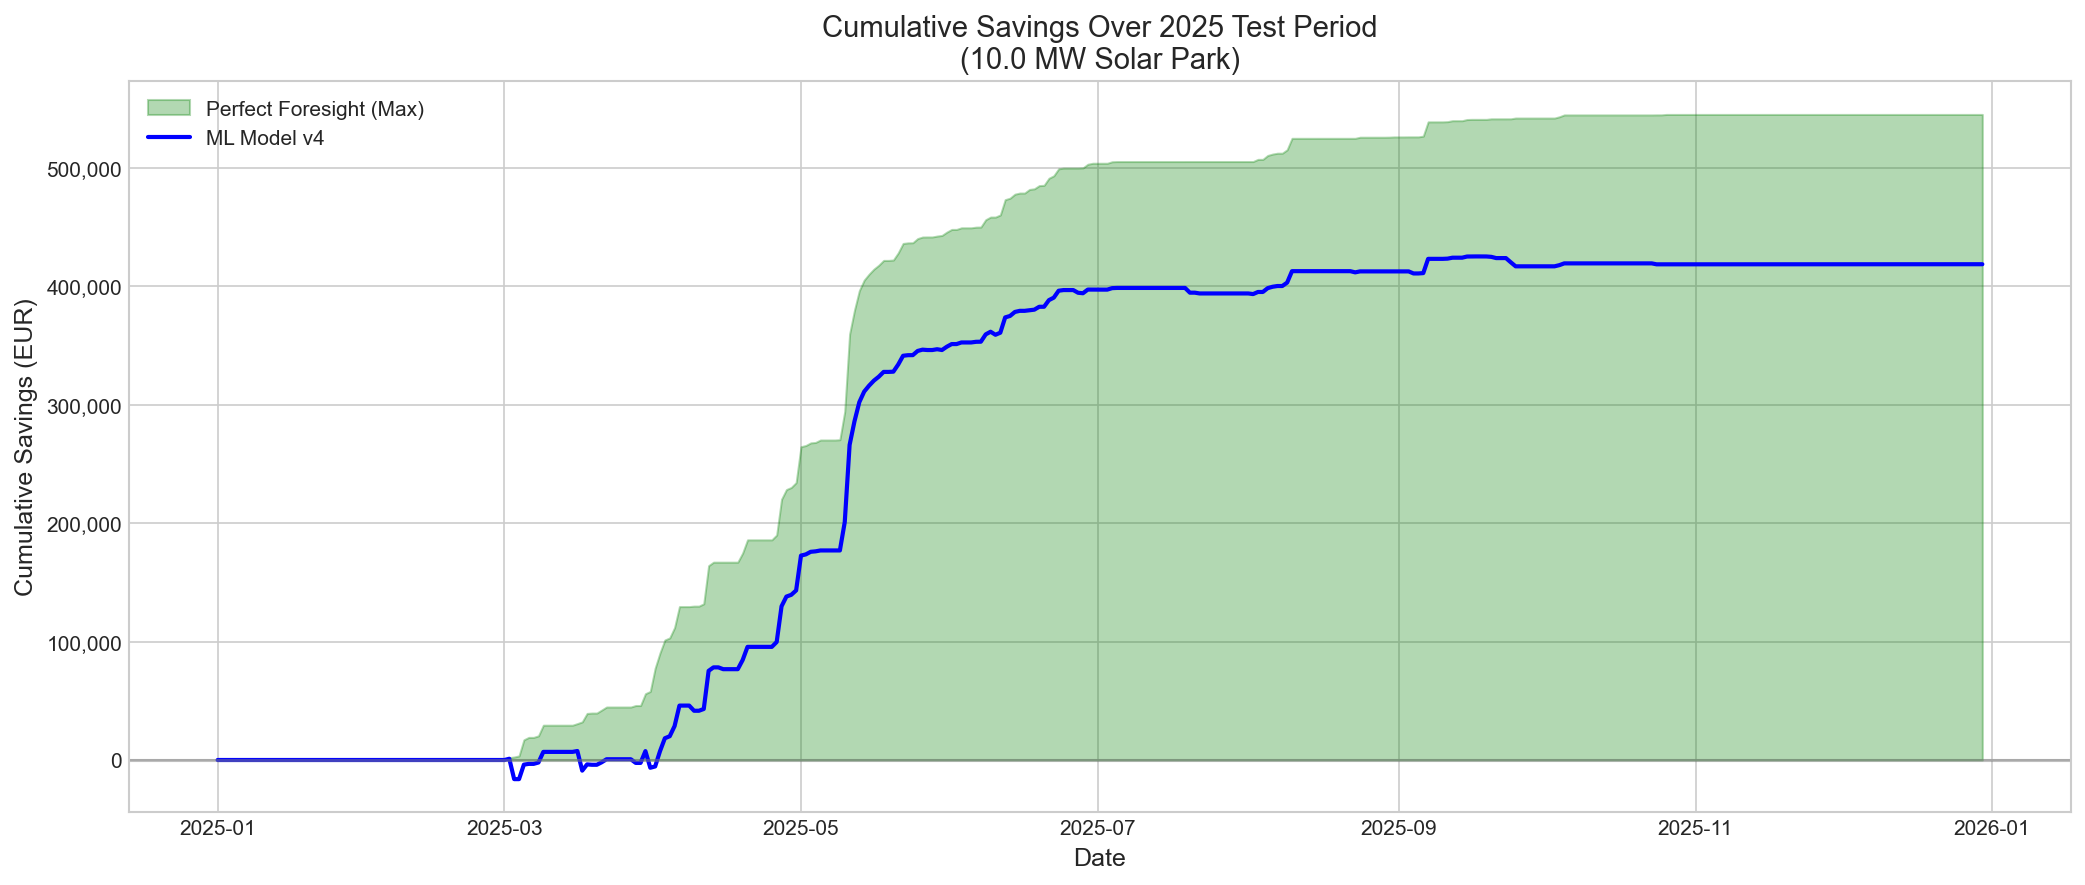
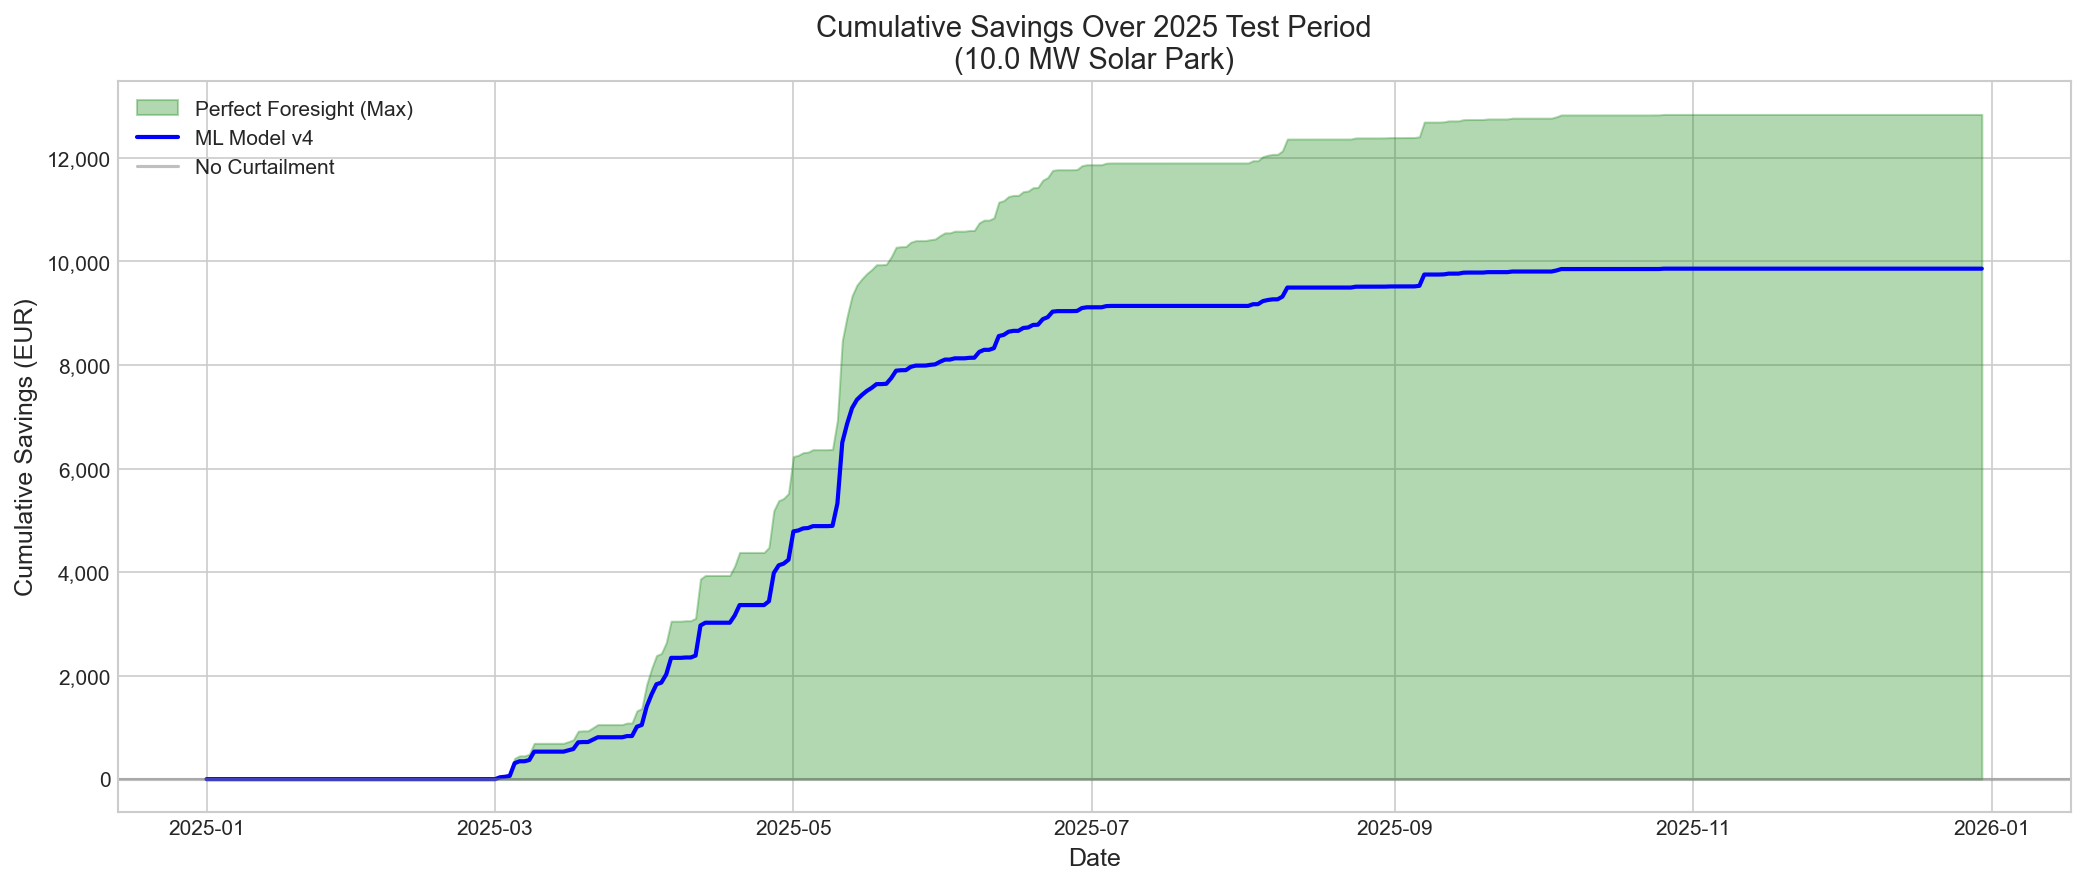
Effiencey changes and debugging

diff --git a/scripts/run_economic_analysis.py b/scripts/run_economic_analysis.py
@@ -217,10 +217,17 @@ def create_visualizations(results: pd.DataFrame, backtester: EconomicBacktester,
     test_df_copy = test_df.copy()
     test_df_copy['ml_pred'] = ml_preds
 
+    # Scale national generation to asset capacity (same as economic_metrics.py)
+    gen_max = test_df_copy['solar_generation_mw'].max()
+    if gen_max > 0:
+        test_df_copy['gen_scaled'] = test_df_copy['solar_generation_mw'] * (ASSET_CAPACITY_MW / gen_max)
+    else:
+        test_df_copy['gen_scaled'] = 0
+
     # Revenue calculations
-    test_df_copy['rev_no_curtail'] = test_df_copy['solar_generation_mw'] * test_df_copy['price_eur_mwh']
-    test_df_copy['rev_ml'] = test_df_copy['solar_generation_mw'] * test_df_copy['price_eur_mwh'] * (1 - test_df_copy['ml_pred'])
-    test_df_copy['rev_perfect'] = test_df_copy['solar_generation_mw'] * np.maximum(test_df_copy['price_eur_mwh'], 0)
+    test_df_copy['rev_no_curtail'] = test_df_copy['gen_scaled'] * test_df_copy['price_eur_mwh']
+    test_df_copy['rev_ml'] = test_df_copy['gen_scaled'] * test_df_copy['price_eur_mwh'] * (1 - test_df_copy['ml_pred'])
+    test_df_copy['rev_perfect'] = test_df_copy['gen_scaled'] * np.maximum(test_df_copy['price_eur_mwh'], 0)
 
     # Daily aggregation
     daily = test_df_copy.resample('D').agg({
@@ -240,7 +247,7 @@ def create_visualizations(results: pd.DataFrame, backtester: EconomicBacktester,
                     alpha=0.3, color='green', label='Perfect Foresight (Max)')
     ax.plot(daily.index, daily['cum_savings_ml'], color='blue', linewidth=2,
             label=f'ML Model {MODEL_VERSION}')
-    ax.axhline(y=0, color='gray', linestyle='-', alpha=0.5)
+    ax.axhline(y=0, color='gray', linestyle='-', alpha=0.5, label='No Curtailment')
 
     ax.set_xlabel('Date', fontsize=12)
     ax.set_ylabel('Cumulative Savings (EUR)', fontsize=12)

diff --git a/src/models/xgboost_model.py b/src/models/xgboost_model.py
@@ -16,7 +16,9 @@ from typing import Dict, List, Optional, Tuple, Any
 
 import numpy as np
 import pandas as pd
+import joblib
 from sklearn.ensemble import HistGradientBoostingClassifier
+from sklearn.inspection import permutation_importance
 from sklearn.metrics import (
     precision_score, recall_score, f1_score,
     average_precision_score, classification_report
@@ -282,8 +284,6 @@ class NegativePriceXGBoost:
         pd.DataFrame
             Feature importance with mean and std
         """
-        from sklearn.inspection import permutation_importance
-
         result = permutation_importance(
             self.model, X, y,
             n_repeats=n_repeats,
@@ -304,7 +304,6 @@ class NegativePriceXGBoost:
         if self.model is None:
             raise ValueError("Model not trained. Call fit() first.")
 
-        import joblib
         model_data = {
             'model': self.model,
             'params': self.params,
@@ -318,7 +317,6 @@ class NegativePriceXGBoost:
     @classmethod
     def load(cls, path: Path) -> 'NegativePriceXGBoost':
         """Load a model from disk."""
-        import joblib
         model_data = joblib.load(path)
 
         instance = cls(
